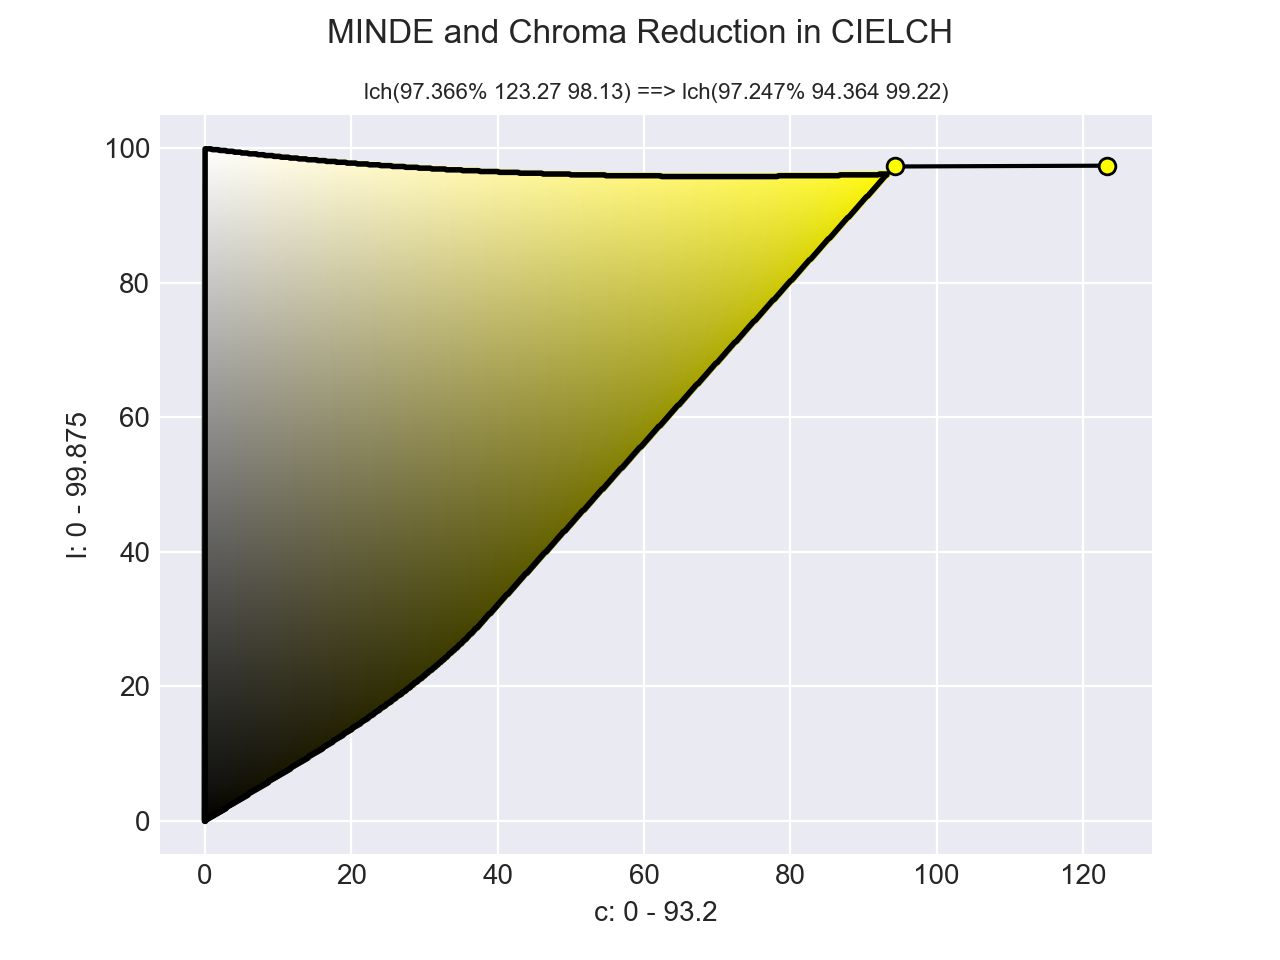
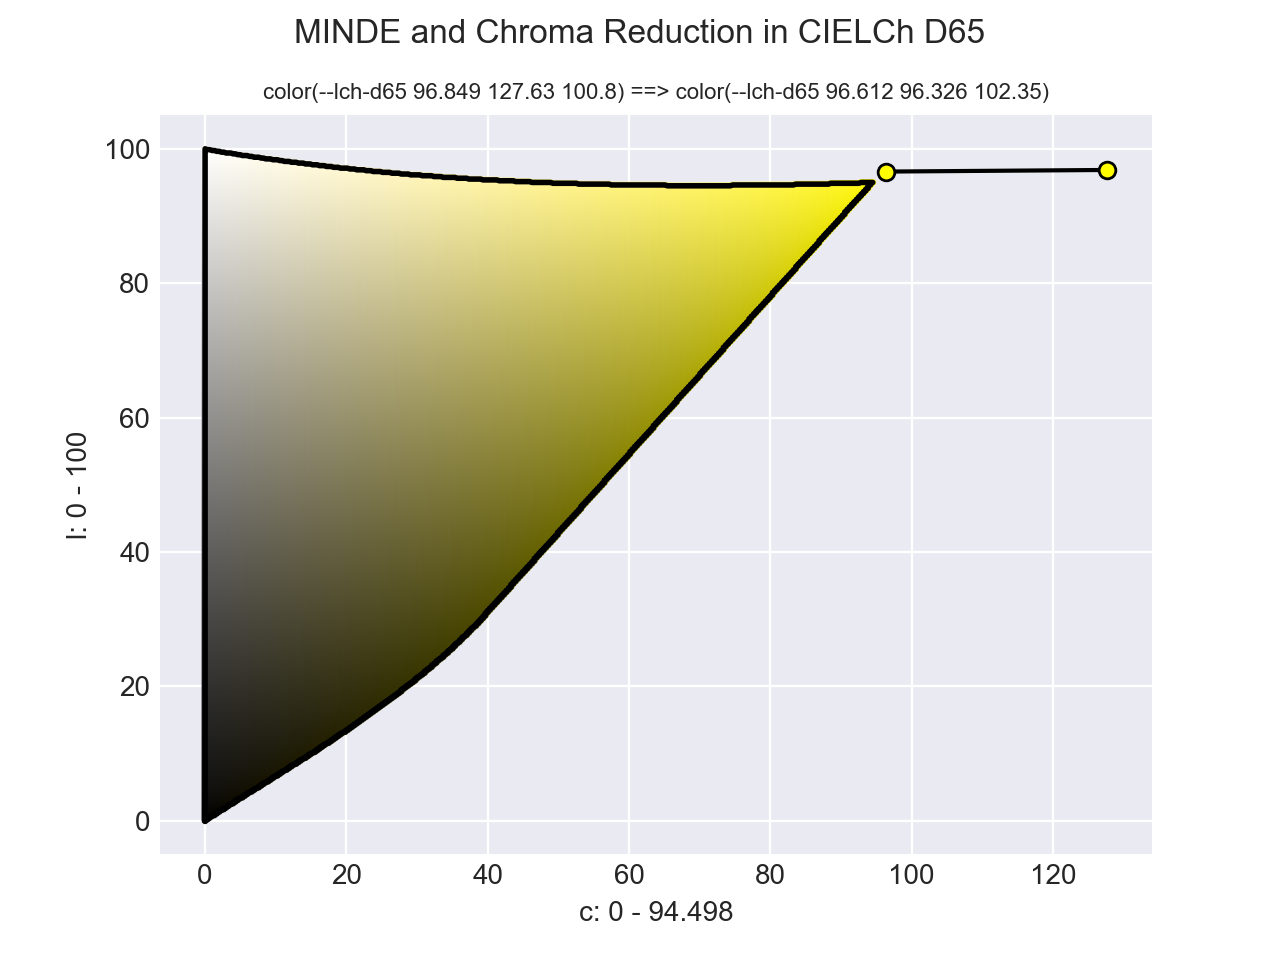
Update gamut diagram tool
- Reference proper space
- Adjust diagram for other gamuts

diff --git a/tools/gamut_diagram.py b/tools/gamut_diagram.py
@@ -22,7 +22,7 @@ def main():
     parser.add_argument('--method', '-m', default='lch-chroma', help="Gamut map method")
     parser.add_argument('--gamut', '-g', default="srgb", help='Gamut to evaluate the color in (default is sRGB).')
     parser.add_argument('--no-border', '-b', action="store_true", help='Draw no border around the graphed content.')
-    parser.add_argument('--resolution', '-r', default="500", help="How densely to render the figure.")
+    parser.add_argument('--resolution', '-r', default="800", help="How densely to render the figure.")
     parser.add_argument('--clip-space', '-p', default='lch', help="LCh space to show clipping in.")
     parser.add_argument('--dark', action="store_true", help="Use dark theme.")
     parser.add_argument('--dpi', default=200, type=int, help="DPI of image.")
@@ -38,7 +38,7 @@ def main():
 
     if method == 'lch-chroma':
         space = 'lch-d65'
-        t_space = 'CIELCh'
+        t_space = 'CIELCh D65'
         xaxis = 'c:0:264'
         yaxis = 'l:0:100'
         x = 'c'
@@ -66,7 +66,7 @@ def main():
         title = 'MINDE and Chroma Reduction in {}'.format(t_space)
 
     color = Color(args.color).convert(space, in_place=True)
-    color2 = color.clone().fit('srgb', method=args.method)
+    color2 = color.clone().fit(args.gamut, method=args.method)
     mapcolor = color.convert(space)
     mapcolor2 = color2.convert(space)
     constant = 'h:{}'.format(fmt_float(mapcolor['hue'], 5))
